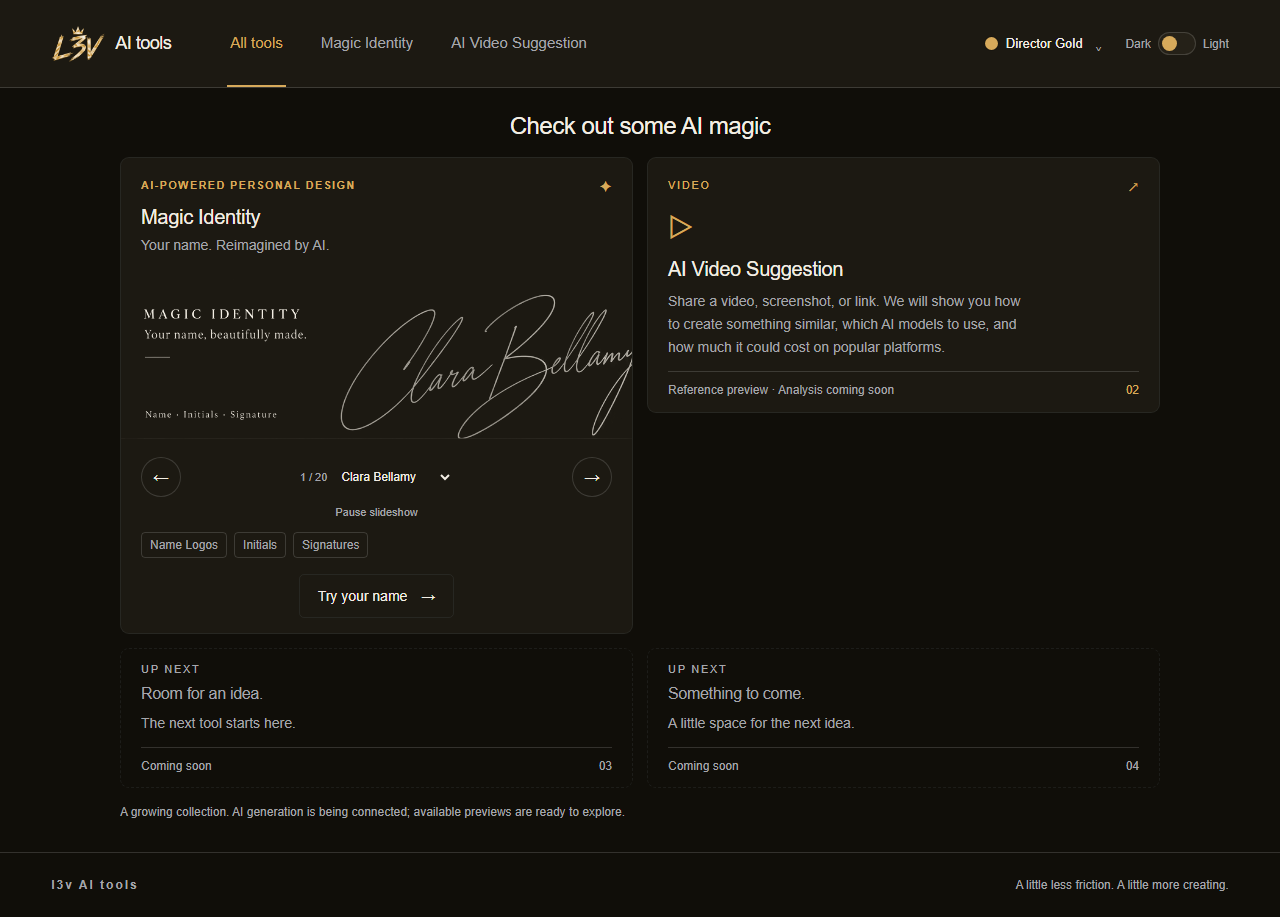
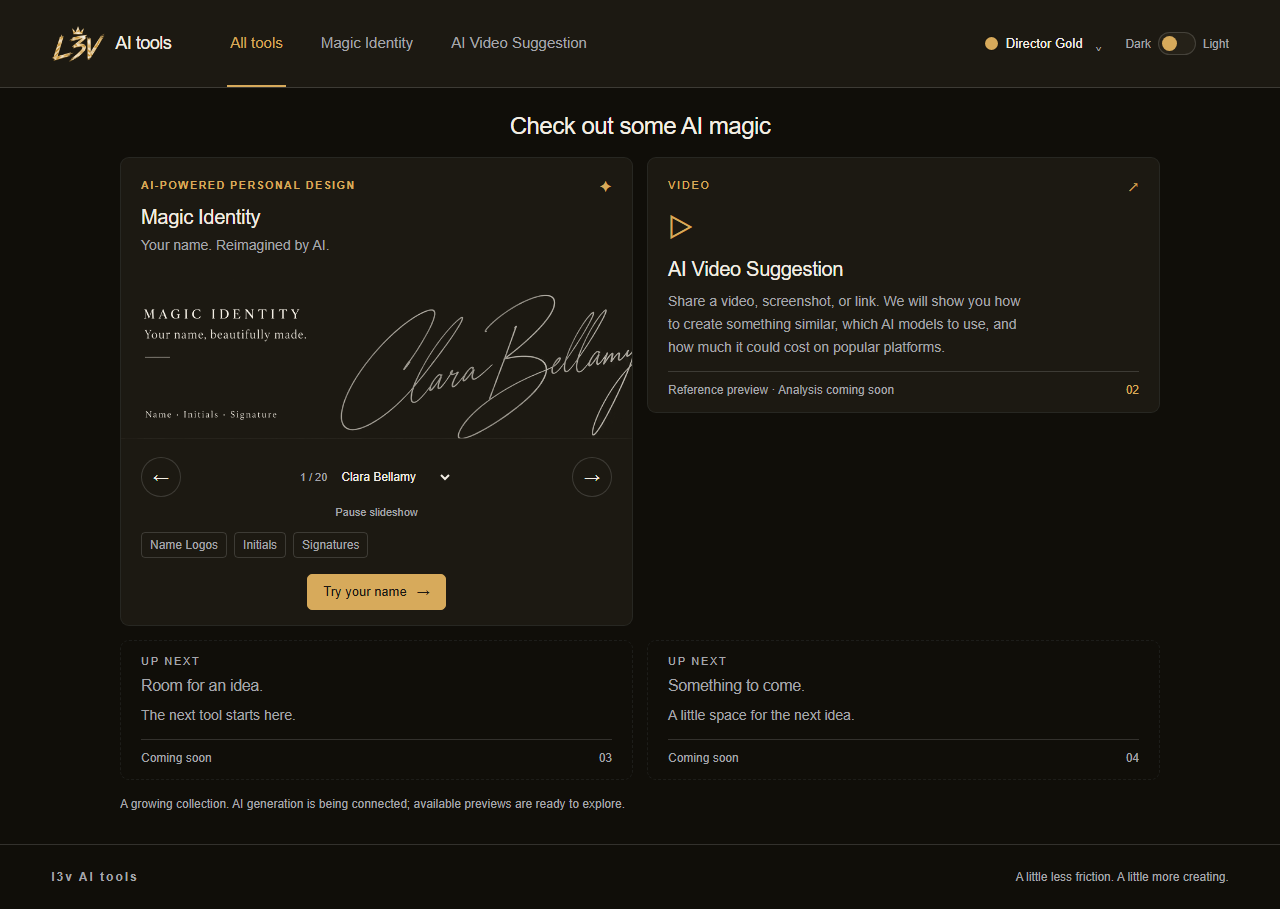
Use selected small solid Try your name button

diff --git a/tools-website/src/appearance.css b/tools-website/src/appearance.css
@@ -39,7 +39,8 @@ body{background:var(--background);color:var(--foreground)}.topbar,.skip{backgrou
 @media(max-width:620px){.concept-viewport{height:125px;min-height:125px}}
 @media(prefers-reduced-motion:reduce){.concept-viewport .concept-slide{transition:none}}
 
-.identity-try-button{display:inline-flex;align-self:center;align-items:center;justify-content:center;gap:14px;min-height:44px;padding:10px 18px;margin-top:4px;border:1px solid var(--border);border-radius:5px;background:transparent;color:var(--foreground);font-size:14px;font-weight:500;text-decoration:none;transition:background-color .15s ease,border-color .15s ease}
-.identity-try-button:hover{background:var(--surface);border-color:var(--muted)}
+.identity-try-button{display:inline-flex;align-self:center;align-items:center;justify-content:center;gap:10px;min-height:36px;padding:8px 15px;margin-top:4px;border:1px solid var(--accent);border-radius:5px;background:var(--accent);color:var(--panel);font-size:13px;font-weight:500;text-decoration:none;transition:filter .15s ease}
+.identity-try-button:hover{filter:brightness(1.12)}
 @media(prefers-reduced-motion:reduce){.identity-try-button{transition:none}}
+
 
